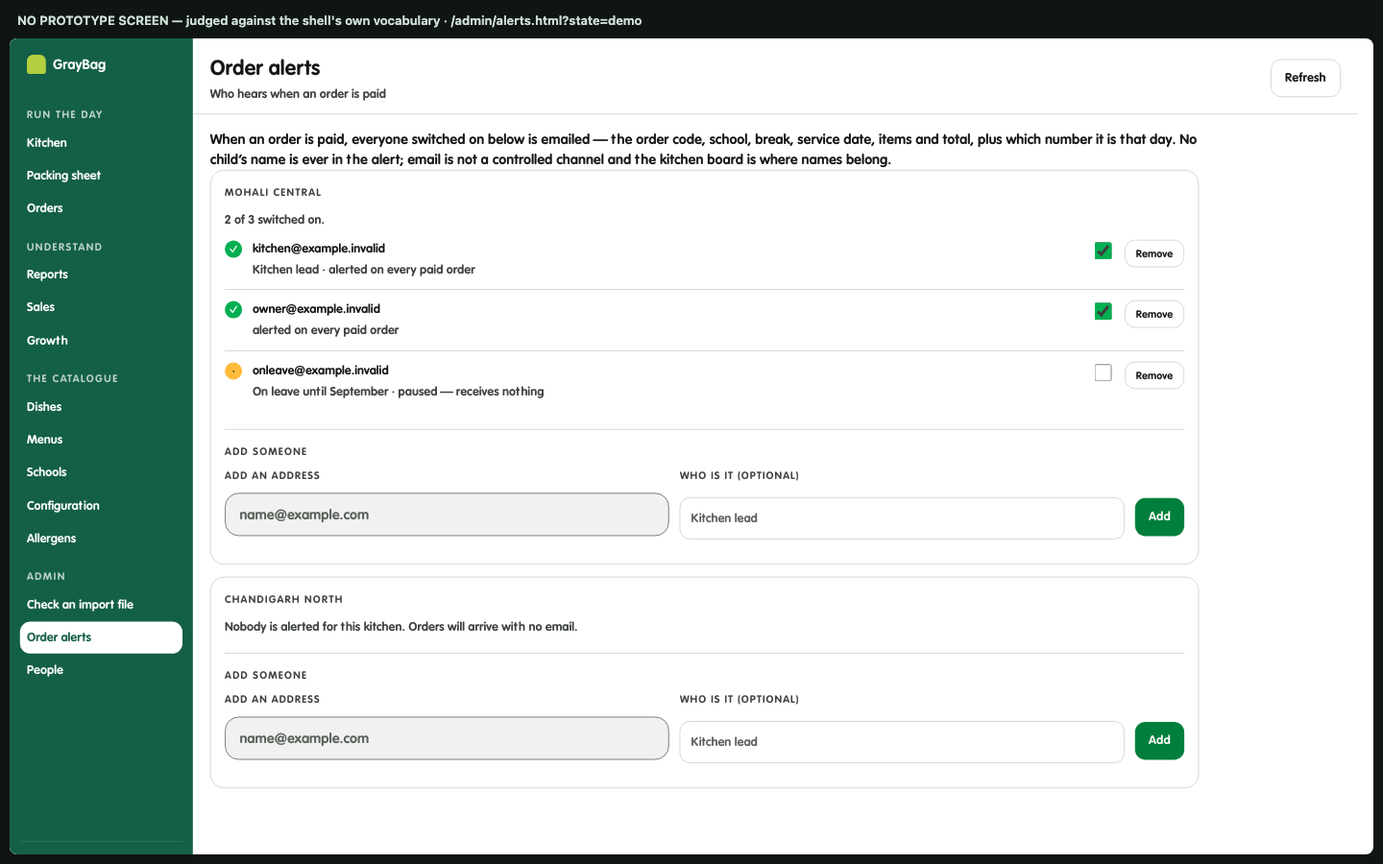
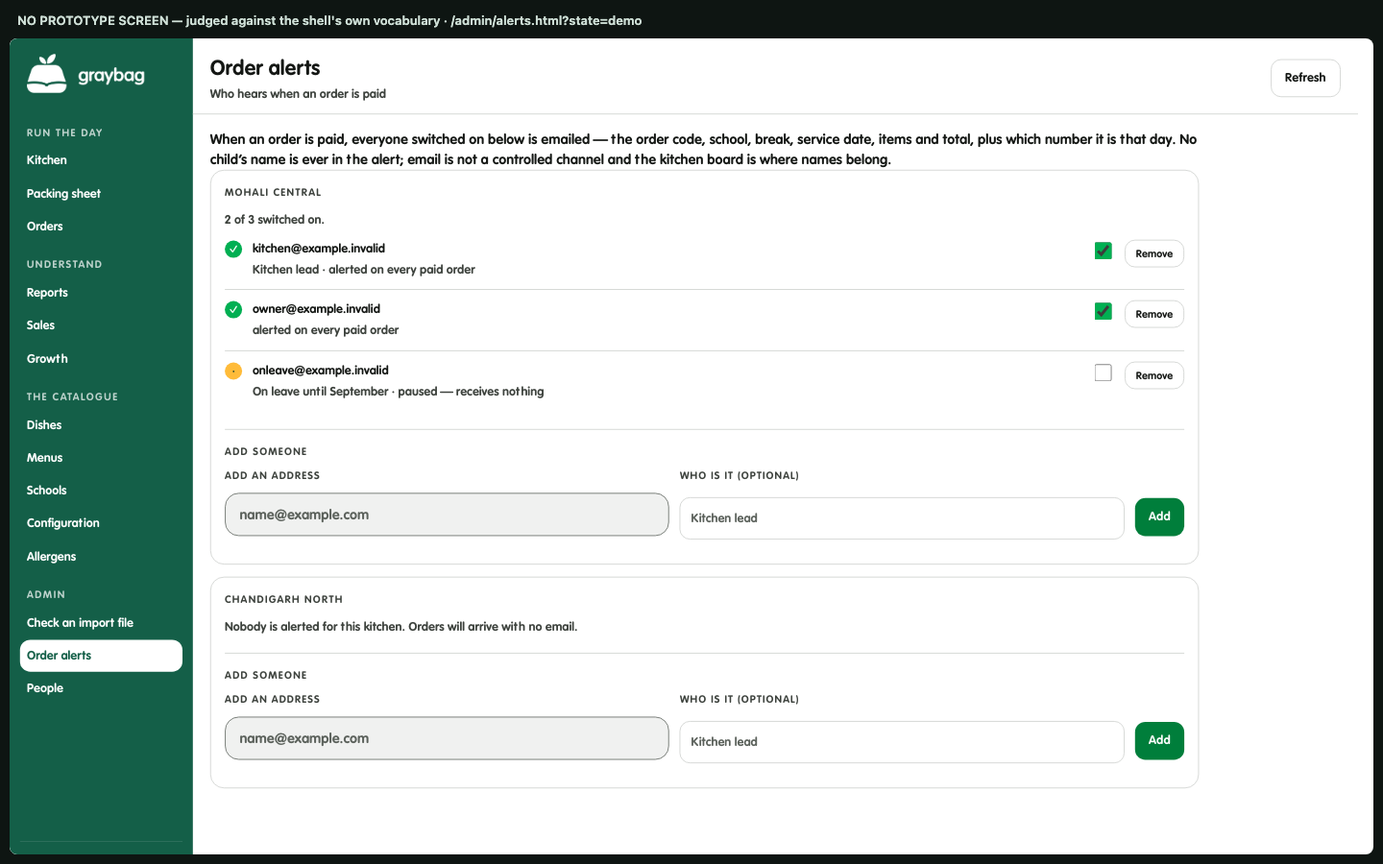
E10-63: /orders had no stylesheet on production, and the checks that missed it (#146)
Four fixes and the reason the tooling passed a visibly broken page.

**/orders rendered as raw HTML.** The migration removed its kitchen.css import
and added nothing, because the rule that replaced imports looked for admin.css
and that page never had one. Nothing caught it: it builds, has no console
errors, its markup is right, and an unstyled page passes a11y more easily than a
styled one. Every signal was visual.

**A build guard now asserts it.** A page whose body carries the shell root must
link a stylesheet defining the shell. Proved by deleting the import and watching
the build fail with the exact message.

**That guard was dead when first written** — placed below the report-and-exit
block, so its failures landed in an array that had already been printed. This
project has now done that twice (E12-36 was the first). check-build-order.test.mjs
asserts nothing executes after the report, so there is no third time.

**The parity tool measured nothing.** It photographed /orders and I never opened
the image — but it could not have helped anyway: /orders has no demo fixture, so
it redirects to sign-in, and the tool shot the sign-in page. Worse, its "no .bo
root" branch returned PASS. It now treats a redirect and a missing shell as
failures, reports which, and exits non-zero. A tool whose only output is pictures
is worth what somebody looking at every picture is worth.

**Also:** the real GrayBag mark replaces the prototype lime square (logo-white
[…]

Changed region(s): [[0.0, 0.28, 0.0938, 0.6533], [0.0, 0.6844, 0.1562, 0.8089], [0.0, 0.0622, 0.125, 0.2489]]

diff --git a/packages/shared/src/policy/documents.generated.ts b/packages/shared/src/policy/documents.generated.ts
@@ -33,7 +33,7 @@ export const POLICY_DOCUMENTS: Record<PolicyKey, PolicyDocument> = {
     source: "docs/terms.md",
     hasPendingTokens: true,
     pendingTokens: ["«SIGNATURE-TREATMENT-PENDING-E00-10»"],
-    markdown: "# GrayBag Terms of Service\n\n**Last updated:** 2026-08-14\n**Applies to:** the GrayBag mobile app and website.\n\nBy creating an account or placing an order, you agree to these Terms and to our\n[Privacy Policy](./privacy-policy.md). If you do not agree, do not use the service.\n\n---\n\n## 1. Who we are and what we do\n\nGrayBag (GRAYBAG SOLUTIONS PRIVATE LIMITED, SCO-461-462, Top Floor, Sector 35-C, Chandigarh, 160022,\nGSTIN 03AAMCG3438M1ZD) takes orders for school lunches and arranges their delivery to\nschools and colleges. **We are the seller of record** (`M1`): you buy the meal from GrayBag, we\ninvoice you, and we pay the kitchens separately. The kitchens prepare the food; GrayBag is\nresponsible to you for the order.\n\n---\n\n## 2. Your account\n\n- You sign in with your **mobile number and a one-time password (OTP)** (`U1`). Keep access to your\n  number secure — anyone who can receive your OTP can use your account.\n- You must be **18 or older** to hold an account and to place orders. When you add a child, you\n  confirm you are that child's parent or lawful guardian and are entitled to give us their details\n  (see the Privacy Policy, §4).\n- The information you give us — your name, your child's name, **school, class and section** — must be\n  accurate. Attendance and class are **self-declared** (`P1`); we rely on what you tell us to deliver\n  to the right place, and we cannot deliver correctly if it is wrong.\n- You are responsible for what happens under your account.\n\n---\n\n## 3. Placing an order\n\n- You choose meals from the menu shown for your child's school. The price you see at checkout is the\n  price you pay; if a price or a cutoff has changed between building your cart and paying, we will\n  **stop and ask you to confirm the new total** rather than charge a different amount (`L7`).\n- **Cutoff.** Each order has a cutoff time, after which it can no longer be placed or changed by you.\n  The cutoff is shown before you pay. Orders are for a specific **service date** (the day the food is\n  eaten).\n- An order is confirmed only when your **payment is captured** — not merely authorised (`L5`). Until\n  then you will see a waiting state, not a confirmation.\n- We may decline or cancel an order (with a refund where due) if a dish becomes unavailable, a\n  kitchen or school is closed, or we reasonably believe the order is fraudulent or mistaken.\n\n---\n\n## 4. Prices, taxes and invoices\n\n- All prices are in **Indian Rupees**.\n- **GST applies.** For an intra-state supply this is shown as **CGST 2.5% + SGST 2.5%** (`M2`, `G2`);\n  for an inter-state supply it is IGST at the same total rate. **Today every GrayBag supply is\n  intra-state**, because we serve Mohali only (`SC1`).\n  `[confirm in E00-10]` whether the menu price is inclusive or exclusive of GST (`[DM-20]`, `[GST-01]`).\n- We issue you a **tax invoice** for each payment, with a gapless serial number for the financial\n  year (`M3`, `G8`, `G9`). The invoice is the record of what you bought and what tax you paid, and we\n  are required to keep it for a statutory period even after you delete your account (see the Privacy\n  Policy, §5). Your child's **first name** appears on the invoice line so you can tell your children's\n  orders apart (`G7`).\n- Invoices are computer-generated. «SIGNATURE-TREATMENT-PENDING-E00-10» (whether a digital signature\n  is required, `[GST-05]`).\n\n---\n\n## 5. Payment\n\n- Payment is processed by **Razorpay** (card, UPI, netbanking). We do not see or store your card\n  details; they are handled inside Razorpay's checkout. See the Privacy Policy, §3, for what Razorpay\n  receives.\n- **Wallet.** If we refund you to your GrayBag **wallet**, that balance can be used to pay for future\n  orders. Wallet credit is **store credit** — it is not cash, it is not transferable, and (in v1) it\n  cannot be topped up with cash. It arises only from refunds. `[confirm in E20-01]` on the RBI Prepaid\n  Payment Instrument position for refund-only credit — cash top-up is deliberately **not** offered\n  because it is regulated.\n\n---\n\n## 6. Cancellations and refunds\n\nThe full rules — who can cancel when, where the money goes, and how long it takes — are in the\n**[Refund & Cancellation Policy](./refund-policy.md)**, which forms part of these Terms. In short:\n\n- You may cancel an order yourself up to the **cancellation cutoff** for that order (`T10`). After\n  that, only the kitchen or GrayBag can cancel it (`T11`, `T12`).\n- Where a refund is due, it goes to your **GrayBag wallet by default** (instant), or to your original\n  payment method on request (which takes several working days) (`M7`).\n- We cancel and refund automatically if a dish is unavailable, or a kitchen or school closes.\n\n---\n\n## 7. Delivery\n\n- Meals are delivered to the child's school for the chosen break time, or made available for counter\n  pickup, depending on the school's arrangement.\n- For counter pickup, a **4-digit pickup code** is sent in your confirmation email and printed on your\n  invoice (`P4`). Staff check the child's name shown on their screen as well as the code before\n  handing the food over.\n- We deliver to the **school, class and section you declared**. If those details are wrong, we may not\n  be able to deliver, and a refund may not be due for a failed delivery caused by wrong information\n  you gave us.\n\n---\n\n## 8. Allergies and food information\n\nThis section describes what the system does, so you can judge what to rely on. It is a\ndescription, not a promise.\n\n**What you enter.** Allergies belong to a child, not to an order. On a child's profile you can\nrecord allergens from a list, each with a severity, and add a free-text note. You enter this once\nand it applies to every order for that child.\n\n**Where it is stored.** On that child's record. It is treated as sensitive personal data about a\nchild under the Digital Personal Data Protection Act, 2023 — see our Privacy Policy.\n\n**What the app does with it.** When you add a dish for a child, the app compares the allergens the\nkitchen has declared for that dish against the ones recorded for that child:\n\n- If they overlap, the app stops and asks you to confirm a second time, naming the allergen, the\n  dish and the child.\n- If nobody has described the dish's allergens, the app says \"not provided\" on the dish, every\n  time, for every child. It does not treat an undescribed dish as safe.\n- If you have not recorded any allergens for that child, there is nothing to compare and no\n  warning appears.\n\n**Where allergen information comes from.** The kitchens supply it. We publish what they give us.\nWe do not test food, inspect kitchens, or verify the declarations independently.\n\n**The per-dish note is not an allergy record.** The note you can attach to a dish when ordering\ngoes to the kitchen as a request — \"less spicy\", \"cut in half\". It is not read as allergy\ninformation, and the app will direct you to the child's profile if you type allergy language into\nit.\n\n**What the kitchen sees.** The staff who pack and hand over the bag see, beside the child's name,\nthe allergens you recorded — as short labels such as MILK or TREE NUT. If you have recorded none,\ntheir screen says \"No allergies provided\" rather than leaving the space blank.\n\n**What the kitchen does not see.** Not your free-text allergy note, not the severity you recorded,\nand no other medical detail. Only the labels.\n\n**What the system does not do.**\n\n- It does not prevent you from ordering a dish after you confirm the warning.\n- It does not check the food as actually prepared. Kitchens handle many ingredients, and a dish\n  can pick up traces of one that was not declared.\n- It does not know about an allergy you have not recorded. Where you have recorded none, the\n  kitchen is told that you have recorded none — not that there are none.\n\n**If a child has a serious or life-threatening allergy, do not rely on this app alone.** The\nwarning is a comparison between two lists we were given. It is not an inspection of the food.\n\n---\n\n## 9. Acceptable use\n\nYou agree not to: use someone else's account or add a child you have no right to add; attempt to place\norders you do not intend to pay for; probe, scrape or attack the service; or use the service for\nanything unlawful. We may suspend or close an account that breaks these Terms.\n\n---\n\n## 10. Our responsibility to you\n\n- We aim to deliver the right meal to the right child on the right day. If we fail to deliver an order\n  you paid for, and it is our or the kitchen's fault, you are entitled to a **refund of that order**.\n- **Nothing in these Terms limits liability that cannot be limited by law** — in particular,\n  liability for death or personal injury caused by negligence.\n- The service is provided on a best-efforts basis. Menus, prices and availability change.\n\n---\n\n## 11. Changes to these Terms\n\nWe may change these Terms. If a change matters, we will ask you to accept the new version before you\nnext order (`E20-03`). Continuing to use the service after a change means you accept it.\n\n---\n\n## 12. Governing law and disputes\n\nThese Terms are governed by the laws of **India**, and disputes are subject to the courts of\nSAS Nagar (Mohali), India. For a complaint about how we handle your personal data, contact\nour **Grievance Officer** (Privacy Policy, §8); if unresolved you may complain to the Data Protection\nBoard of India.\n\n---\n\n## 13. Contact\n\nsupport@graybag.com. Grievance Officer:\nsupport@graybag.com.\n",
+    markdown: "# GrayBag Terms of Service\n\n**Last updated:** 2026-08-14\n**Applies to:** the GrayBag mobile app and website.\n\nBy creating an account or placing an order, you agree to these Terms and to our\n[Privacy Policy](./privacy-policy.md). If you do not agree, do not use the service.\n\n---\n\n## 1. Who we are and what we do\n\nGrayBag (GRAYBAG SOLUTIONS PRIVATE LIMITED, 13, Sector 82, JLPL Industrial Area, GMADA Aerocity, Mohali, Punjab 140306,\nGSTIN 03AAMCG3438M1ZD) takes orders for school lunches and arranges their delivery to\nschools and colleges. **We are the seller of record** (`M1`): you buy the meal from GrayBag, we\ninvoice you, and we pay the kitchens separately. The kitchens prepare the food; GrayBag is\nresponsible to you for the order.\n\n---\n\n## 2. Your account\n\n- You sign in with your **mobile number and a one-time password (OTP)** (`U1`). Keep access to your\n  number secure — anyone who can receive your OTP can use your account.\n- You must be **18 or older** to hold an account and to place orders. When you add a child, you\n  confirm you are that child's parent or lawful guardian and are entitled to give us their details\n  (see the Privacy Policy, §4).\n- The information you give us — your name, your child's name, **school, class and section** — must be\n  accurate. Attendance and class are **self-declared** (`P1`); we rely on what you tell us to deliver\n  to the right place, and we cannot deliver correctly if it is wrong.\n- You are responsible for what happens under your account.\n\n---\n\n## 3. Placing an order\n\n- You choose meals from the menu shown for your child's school. The price you see at checkout is the\n  price you pay; if a price or a cutoff has changed between building your cart and paying, we will\n  **stop and ask you to confirm the new total** rather than charge a different amount (`L7`).\n- **Cutoff.** Each order has a cutoff time, after which it can no longer be placed or changed by you.\n  The cutoff is shown before you pay. Orders are for a specific **service date** (the day the food is\n  eaten).\n- An order is confirmed only when your **payment is captured** — not merely authorised (`L5`). Until\n  then you will see a waiting state, not a confirmation.\n- We may decline or cancel an order (with a refund where due) if a dish becomes unavailable, a\n  kitchen or school is closed, or we reasonably believe the order is fraudulent or mistaken.\n\n---\n\n## 4. Prices, taxes and invoices\n\n- All prices are in **Indian Rupees**.\n- **GST applies.** For an intra-state supply this is shown as **CGST 2.5% + SGST 2.5%** (`M2`, `G2`);\n  for an inter-state supply it is IGST at the same total rate. **Today every GrayBag supply is\n  intra-state**, because we serve Mohali only (`SC1`).\n  `[confirm in E00-10]` whether the menu price is inclusive or exclusive of GST (`[DM-20]`, `[GST-01]`).\n- We issue you a **tax invoice** for each payment, with a gapless serial number for the financial\n  year (`M3`, `G8`, `G9`). The invoice is the record of what you bought and what tax you paid, and we\n  are required to keep it for a statutory period even after you delete your account (see the Privacy\n  Policy, §5). Your child's **first name** appears on the invoice line so you can tell your children's\n  orders apart (`G7`).\n- Invoices are computer-generated. «SIGNATURE-TREATMENT-PENDING-E00-10» (whether a digital signature\n  is required, `[GST-05]`).\n\n---\n\n## 5. Payment\n\n- Payment is processed by **Razorpay** (card, UPI, netbanking). We do not see or store your card\n  details; they are handled inside Razorpay's checkout. See the Privacy Policy, §3, for what Razorpay\n  receives.\n- **Wallet.** If we refund you to your GrayBag **wallet**, that balance can be used to pay for future\n  orders. Wallet credit is **store credit** — it is not cash, it is not transferable, and (in v1) it\n  cannot be topped up with cash. It arises only from refunds. `[confirm in E20-01]` on the RBI Prepaid\n  Payment Instrument position for refund-only credit — cash top-up is deliberately **not** offered\n  because it is regulated.\n\n---\n\n## 6. Cancellations and refunds\n\nThe full rules — who can cancel when, where the money goes, and how long it takes — are in the\n**[Refund & Cancellation Policy](./refund-policy.md)**, which forms part of these Terms. In short:\n\n- You may cancel an order yourself up to the **cancellation cutoff** for that order (`T10`). After\n  that, only the kitchen or GrayBag can cancel it (`T11`, `T12`).\n- Where a refund is due, it goes to your **GrayBag wallet by default** (instant), or to your original\n  payment method on request (which takes several working days) (`M7`).\n- We cancel and refund automatically if a dish is unavailable, or a kitchen or school closes.\n\n---\n\n## 7. Delivery\n\n- Meals are delivered to the child's school for the chosen break time, or made available for counter\n  pickup, depending on the school's arrangement.\n- For counter pickup, a **4-digit pickup code** is sent in your confirmation email and printed on your\n  invoice (`P4`). Staff check the child's name shown on their screen as well as the code before\n  handing the food over.\n- We deliver to the **school, class and section you declared**. If those details are wrong, we may not\n  be able to deliver, and a refund may not be due for a failed delivery caused by wrong information\n  you gave us.\n\n---\n\n## 8. Allergies and food information\n\nThis section describes what the system does, so you can judge what to rely on. It is a\ndescription, not a promise.\n\n**What you enter.** Allergies belong to a child, not to an order. On a child's profile you can\nrecord allergens from a list, each with a severity, and add a free-text note. You enter this once\nand it applies to every order for that child.\n\n**Where it is stored.** On that child's record. It is treated as sensitive personal data about a\nchild under the Digital Personal Data Protection Act, 2023 — see our Privacy Policy.\n\n**What the app does with it.** When you add a dish for a child, the app compares the allergens the\nkitchen has declared for that dish against the ones recorded for that child:\n\n- If they overlap, the app stops and asks you to confirm a second time, naming the allergen, the\n  dish and the child.\n- If nobody has described the dish's allergens, the app says \"not provided\" on the dish, every\n  time, for every child. It does not treat an undescribed dish as safe.\n- If you have not recorded any allergens for that child, there is nothing to compare and no\n  warning appears.\n\n**Where allergen information comes from.** The kitchens supply it. We publish what they give us.\nWe do not test food, inspect kitchens, or verify the declarations independently.\n\n**The per-dish note is not an allergy record.** The note you can attach to a dish when ordering\ngoes to the kitchen as a request — \"less spicy\", \"cut in half\". It is not read as allergy\ninformation, and the app will direct you to the child's profile if you type allergy language into\nit.\n\n**What the kitchen sees.** The staff who pack and hand over the bag see, beside the child's name,\nthe allergens you recorded — as short labels such as MILK or TREE NUT. If you have recorded none,\ntheir screen says \"No allergies provided\" rather than leaving the space blank.\n\n**What the kitchen does not see.** Not your free-text allergy note, not the severity you recorded,\nand no other medical detail. Only the labels.\n\n**What the system does not do.**\n\n- It does not prevent you from ordering a dish after you confirm the warning.\n- It does not check the food as actually prepared. Kitchens handle many ingredients, and a dish\n  can pick up traces of one that was not declared.\n- It does not know about an allergy you have not recorded. Where you have recorded none, the\n  kitchen is told that you have recorded none — not that there are none.\n\n**If a child has a serious or life-threatening allergy, do not rely on this app alone.** The\nwarning is a comparison between two lists we were given. It is not an inspection of the food.\n\n---\n\n## 9. Acceptable use\n\nYou agree not to: use someone else's account or add a child you have no right to add; attempt to place\norders you do not intend to pay for; probe, scrape or attack the service; or use the service for\nanything unlawful. We may suspend or close an account that breaks these Terms.\n\n---\n\n## 10. Our responsibility to you\n\n- We aim to deliver the right meal to the right child on the right day. If we fail to deliver an order\n  you paid for, and it is our or the kitchen's fault, you are entitled to a **refund of that order**.\n- **Nothing in these Terms limits liability that cannot be limited by law** — in particular,\n  liability for death or personal injury caused by negligence.\n- The service is provided on a best-efforts basis. Menus, prices and availability change.\n\n---\n\n## 11. Changes to these Terms\n\nWe may change these Terms. If a change matters, we will ask you to accept the new version before you\nnext order (`E20-03`). Continuing to use the service after a change means you accept it.\n\n---\n\n## 12. Governing law and disputes\n\nThese Terms are governed by the laws of **India**, and disputes are subject to the courts of\nSAS Nagar (Mohali), India. For a complaint about how we handle your personal data, contact\nour **Grievance Officer** (Privacy Policy, §8); if unresolved you may complain to the Data Protection\nBoard of India.\n\n---\n\n## 13. Contact\n\nsupport@graybag.com. Grievance Officer:\nsupport@graybag.com.\n",
   },
   refund: {
     title: "Refund policy",

diff --git a/planning/backlog.html b/planning/backlog.html
@@ -2877,13 +2877,13 @@
         </div>
         <div class="meter-wrap">
           <div class="meter"><span style="width:0%"></span></div>
-          <span class="meter-num">0/37</span>
+          <span class="meter-num">0/39</span>
         </div>
       </header>
       <p class="summary">React Native + Expo shell, navigation, the api/ module discipline, and the performance work that matters — mostly <strong>slow and unreliable networks</strong>, which is the real constraint; devices are mid-range, not bottom-tier.</p>
       <p class="deps">Depends on <code>E13</code> <code>E01</code></p>
       <details>
-        <summary>Context &amp; 37 tasks</summary>
+        <summary>Context &amp; 39 tasks</summary>
         <div class="context"><h4>Locked decisions</h4>
 <ul>
 <li><strong>React Native + Expo</strong>, TypeScript. Reanimated for UI-thread animation, Skia where custom motion is needed.</li>
@@ -3186,6 +3186,22 @@
         <span class="badge r-you">you</span>
         <span class="badge r-later">later</span>
         <span class="ttext">(risk:medium) <strong>Maestro runs a real Android build on web-only pull requests, and adds 25–40 minutes to each.</strong> Andy, 2026-08-28. Every web PR this week waited on an emulator boot, a Gradle build and a cart flow for a change that cannot reach the app. <strong>The obvious fix is the dangerous one.</strong> Putting <code>paths:</code> on the workflow means a web PR never schedules the job at all, and a required check that never reports either blocks the PR forever or — depending on how the protection rule is configured — is treated as satisfied. That is the failure <code>E15-23</code> exists about, arriving by a new route: *not run* and *passed* becoming indistinguishable. <strong>The proposal is that the job always runs and decides inside itself.</strong> No <code>paths:</code> on the trigger and no <code>if:</code> on the required job, so <code>Maestro (cart)</code> always reports a real conclusion. Its first step computes whether the change can affect the app; if not it writes a job summary saying so and exits successfully in about fifteen seconds. The check stays green for the right reason, and the reason is written down where a reviewer can read it. <strong>The subtle part is what counts as mobile.</strong> Not <code>apps/mobile/**</code> — <code>packages/shared</code> ships *inside* the app bundle, and six of the last twelve commits touched it. A filter that misses that skips the check on exactly the changes most able to break the app silently. The list has to be <code>apps/mobile/<strong></code>, <code>packages/shared/</strong></code>, <code>.maestro/<strong></code> and the workflow itself, with a test asserting the list rather than a comment describing it. </strong>And the backstop is what makes it safe**: Maestro runs unconditionally on push to <code>main</code> and in the nightly. If the filter is ever wrong, the cost is finding out within a day rather than never — which is a different and acceptable risk, and is the part that answers &quot;a check that does not run looks like one that passed&quot;</span>
+      </li>
+      <li class="task" data-id="E14-41" data-seed="1" data-risk="" data-owner="build" data-mvp="0" data-seed="1">
+        <button class="box" role="checkbox" aria-checked="false" aria-label="Toggle E14-41"></button>
+        <code class="tid">E14-41</code>
+        
+        
+        <span class="badge r-later">later</span>
+        <span class="ttext"><strong>The scripts suite runs serially, because the meal-pack tests are not isolated from it.</strong> Adding one unrelated test file — <code>check-build-order.test.mjs</code>, which reads two files from disk and touches no database — turned <code>meal-pack-concurrency</code> and <code>pack-eligibility-agreement</code> red. <strong>Nondeterministically</strong>: four failures on one run, two on the next, zero in isolation, zero twice in isolation. <code>node --test</code> runs files concurrently up to the core count, so adding a file changes what runs beside what, and those tests contend with the rest of the suite over shared database state. <strong>The trigger is arbitrary and that is the point</strong> — the next person to add any test file would have hit it, and would have spent an hour proving their own change innocent, as this did. <code>--test-concurrency=1</code> makes it deterministic and costs <strong>nothing measurable</strong>: 196 tests in 7.7 seconds. Determinism beats speed for a gate, and at this size there is no trade to make. <code>E14-42</code> is the real fix</span>
+      </li>
+      <li class="task" data-id="E14-42" data-seed="0" data-risk="" data-owner="build" data-mvp="0">
+        <button class="box" role="checkbox" aria-checked="false" aria-label="Toggle E14-42"></button>
+        <code class="tid">E14-42</code>
+        
+        
+        <span class="badge r-later">later</span>
+        <span class="ttext"><strong>Make the meal-pack tests isolated rather than relying on a serial runner.</strong> <code>E14-41</code> bought determinism by turning parallelism off, which treats the symptom: those tests share database state and assume nothing else is touching it, so they will fail again the moment the suite is parallel for any other reason — a CI runner with more cores, a future <code>--test-concurrency</code> change, or someone running two suites at once. The fix is per-test isolation: a unique pack and school per test rather than a shared fixture, so contention is between the test&#39;s own connections, which is what it is actually trying to prove. The mobile thread owns these tests</span>
       </li></ul>
       </details>
     </article>

diff --git a/packages/shared/src/legal/company.test.ts b/packages/shared/src/legal/company.test.ts
@@ -77,6 +77,31 @@ describe('one source for the company identity', () => {
     // These three are what `E12-25` was about: one answer, two documents.
     expect(COMPANY.legalName).toBe('GRAYBAG SOLUTIONS PRIVATE LIMITED');
     expect(COMPANY.gstin).toBe('03AAMCG3438M1ZD');
-    expect(COMPANY.registeredAddress).toContain('Chandigarh');
+    // Updated 2026-08-28: the GST-registered address moved to Mohali.
+    expect(COMPANY.registeredAddress).toContain('Mohali');
+  });
+
+  /*
+   * The seller's state and the GSTIN's state must agree — added with the address change.
+   *
+   * A GSTIN's first two digits are its state code: `03` is Punjab, `04` is Chandigarh. The
+   * registered address said Chandigarh while the GSTIN said Punjab, and nothing noticed, because
+   * nothing compared them. A tax invoice whose seller address and GSTIN disagree about the state
+   * is fine until somebody files with it.
+   *
+   * Asserted as a property rather than as the current value, so it keeps holding the next time
+   * either one moves.
+   */
+  it('states an address in the state its GSTIN claims', () => {
+    const STATE_BY_CODE: Record<string, string> = { '03': 'Punjab', '04': 'Chandigarh' };
+    // `gstin` is nullable in the type because `company.json` allows null for genuinely unknown
+    // facts. If it is ever null there is no claim to contradict, and this test has nothing to say.
+    const gstin = COMPANY.gstin;
+    if (gstin === null) return;
+
+    const code = gstin.slice(0, 2);
+    const state = STATE_BY_CODE[code];
+    expect(state, `GSTIN begins ${code}, which is not a state code this test knows`).toBeDefined();
+    expect(COMPANY.registeredAddress).toContain(state!);
   });
 });

diff --git a/apps/web/src/styles/backoffice.css b/apps/web/src/styles/backoffice.css
@@ -87,14 +87,7 @@
   font-size: var(--gb-font-size-body-lg);
 }
 
-.bo__brand i {
-  width: 1.375rem;
-  height: 1.375rem;
-  border-radius: 7px 7px 3px 3px;
-  background: var(--lime);
-  display: block;
-  flex: none;
-}
+.bo__brand img { width: 100%; max-width: 8.5rem; height: auto; display: block; }
 
 .bo__group {
   font-size: var(--gb-font-size-overline);
@@ -174,7 +167,23 @@
  * travel the whole way to match a row to its last column. The sidebar keeps its own width; this
  * caps only what is read.
  */
-.bo__scroll { flex: 1; min-width: 0; padding-bottom: var(--gb-space-8); }
+/*
+ * The content column is inset from the sidebar.
+ *
+ * `.pad` gives most blocks their own padding, but anything rendered outside one — a toolbar, a
+ * status line, a page that forgot — sat flush against the dark rail with its first character
+ * touching it. The inset belongs to the column, not to each thing in it.
+ */
+.bo__scroll {
+  flex: 1;
+  min-width: 0;
+  padding: 0 var(--gb-space-5) var(--gb-space-8);
+}
+
+/* `.pad` and `.toolbar` carry their own; do not inset them twice. */
+.bo__scroll > .pad,
+.bo__scroll > .toolbar { margin-inline: calc(var(--gb-space-5) * -1); }
+
 .bo__scroll > *,
 .bo__top > * { max-width: 74rem; }
 .bo__top { display: flex; }

diff --git a/packages/shared/src/legal/company.generated.ts b/packages/shared/src/legal/company.generated.ts
@@ -13,7 +13,8 @@ export const COMPANY_JSON = {
     "rendered document and a production build refuses to publish it."
   ],
   "legalName": "GRAYBAG SOLUTIONS PRIVATE LIMITED",
-  "registeredAddress": "SCO-461-462, Top Floor, Sector 35-C, Chandigarh, 160022",
+  "registeredAddress": "13, Sector 82, JLPL Industrial Area, GMADA Aerocity, Mohali, Punjab 140306",
+  "_registeredAddressComment": "Changed 2026-08-28 on Andy's instruction: this is the GST-registered address. It also RESOLVES an inconsistency rather than only updating a fact — the GSTIN begins 03, which is Punjab, while the previous address was in Chandigarh, state code 04. A tax invoice whose seller address and GSTIN disagree about the state is the kind of thing that is fine until somebody files with it.",
   "gstin": "03AAMCG3438M1ZD",
   "sacCode": null,
   "signatureTreatment": null,

diff --git a/packages/shared/src/payments/invoice-email.test.ts b/packages/shared/src/payments/invoice-email.test.ts
@@ -166,7 +166,7 @@ describe('unresolvedTokens — the guard that was missing', () => {
     const real = {
       ...INVOICE,
       sellerLegalName: 'GRAYBAG SOLUTIONS PRIVATE LIMITED',
-      sellerAddress: 'SCO-461-462, Top Floor, Sector 35-C, Chandigarh, 160022',
+      sellerAddress: '13, Sector 82, JLPL Industrial Area, GMADA Aerocity, Mohali, Punjab 140306',
       sellerGstin: '03AAMCG3438M1ZD',
     };
     expect(unresolvedTokens(renderInvoiceText(real))).toEqual([]);

diff --git a/planning/backlog/E14-mobile-app-shell.md b/planning/backlog/E14-mobile-app-shell.md
@@ -54,3 +54,5 @@ summary: React Native + Expo shell, navigation, the api/ module discipline, and 
 - [x] `E14-37` (risk:high) **`Maximum update depth exceeded` on the waiting screen, during the first real payment.** The poller updated an `elapsedMs` state every two seconds and its effect depended on the object `useCheckout()` returns — which is rebuilt every render, so each tick re-subscribed the effect. **It starved the poll it existed to drive**: the payment captured at Razorpay and the order never settled. Fixed by taking the clock out of render state entirely — the screen needs one threshold crossing (§5.12's ten seconds), so that is one boolean set by one `setTimeout` instead of a state write per tick — and by depending only on primitives and stable callbacks
 - [x] `E14-38` **Maestro never left the school picker: the flow was tapping the search box.** The 2026-08-15 runs are the furthest this job has ever got — AVD booted, staging APK built and installed, app launched, `tab-menu` and `school-picker` both resolved — so `E01-26` (wrong `applicationId`), `E14-36` (Gradle metaspace OOM, 781-second boot) and `E01-28` (missing `EXPO_PUBLIC_RAZORPAY_KEY_ID` rendering `CantConnectScreen`) are all genuinely fixed and the three `vars.*` are set. It then failed on `Assertion is false: id: screen-menu is visible`, **identically on two different commits including a docs-only one** — deterministic, not flaky. Ruled out by querying staging as anon with the exact `select` the app sends: Amity has 47 menu items, version 91, 2 break times, and all three schools list. The cause is the flow itself: `tapOn: id: 'school-picker-.*', index: 0`. `SchoolPicker` puts **nine other testIDs under that prefix** — `-search`, `-stale`, `-welcome`, `-loading`, `-error`, `-empty`, `-no-match`, `-request-footer`, `-request-from-list` — and the **search field renders before the list**, so index 0 was the search box. Tapping it focuses the field and opens the keyboard; no navigation happens, `MenuScreen` never mounts. `screen-menu` is rendered in *every* MenuScreen state including loading and error, so the assertion failing proved the screen was never reached — which is what ruled out the slow-load theory. Fixed by matching a uuid-shaped suffix (`school-picker-[0-9a-f]{8}-…`), which hits rows and only rows and still hard-codes no school. `check-maestro-ids.mjs` recognised a trailing `.*` and nothing else, so it *passed* the loose wrong pattern and *rejected* the precise right one; it now derives the literal prefix from the first regex metacharacter, and still rejects an id that exists nowhere. Also added: `--debug-output` and an artifact upload keeping the screenshot and view hierarchy, and a 45s `extendedWaitUntil` on the first network-backed assertion. **Two self-inflicted costs on the way, both now guarded**: splitting the `maestro test` command across lines with `\` continuations killed a whole 29-minute run in three seconds — `android-emulator-runner` runs its `script:` a line at a time through `sh -c`, so the backslash arrives as a literal argument (`Flow path does not exist: /home/runner/work/graybag/graybag/\`) — and no report or debug artifact was produced at all; and the flow's syntax was never checked before the 25-minute APK build. `maestro check-syntax` needs no device, takes a second, and now runs immediately after the Maestro install, so a malformed flow fails before the build rather than looking identical to a product failure after it. Maestro 2.8.0 confirmed locally to accept `--debug-output` and `--flatten-debug-output`. **The picker fix worked**: the next run reached **step 13** and 54 seconds, up from step 4 and 37 seconds — through the picker, the menu, dish detail, add-to-cart and into the cart — and failed on `"Subtotal" is visible`. The debug artifact settled that one in a minute instead of a run: the screenshot shows a **correct** cart (Wheat Jaggery Cake, ₹69.00 each · excl. GST, sticky `Place order · ₹72.46` — the same paise the production sweep computed), and the view hierarchy contains no `Subtotal` at all, because `CartTotals` is the last card in the ScrollView, under the break-time picker, and is below the fold on a 320x640 emulator. The flow now `scrollUntilVisible`s to `cart-subtotal` first, asserts `No child chosen yet` **before** that scroll (it is the first card; the totals are the last, and they do not share a screen), and moves `assertNotVisible: IGST` to after the scroll — an absence assertion over a region that is off screen passes for the wrong reason. The post-gate assertion changed from the text `Total` to the id `cart-total`, because `Total` also matches inside `Subtotal`. Also found from the same screenshot and filed as `E05-53`: the cart line collapses at 320dp, wrapping a dish name one word per line. **GREEN on 2026-08-16** — `[Passed] cart (47s)`, `1/1 Flow Passed`, run 31891879898, the first time this job has ever passed. Five distinct causes in the end: the wrong Android `applicationId` (`E01-26`), the Gradle metaspace OOM and 781-second boot (`E14-36`), the missing `EXPO_PUBLIC_RAZORPAY_KEY_ID` that rendered `CantConnectScreen` (`E01-28`), the picker pattern tapping the search box, and the totals being below the fold — plus one self-inflicted run lost to `\` line continuations in a `script:` the action runs a line at a time
 - [ ] `E14-40` (owner:andy) (risk:medium) **Maestro runs a real Android build on web-only pull requests, and adds 25–40 minutes to each.** Andy, 2026-08-28. Every web PR this week waited on an emulator boot, a Gradle build and a cart flow for a change that cannot reach the app. **The obvious fix is the dangerous one.** Putting `paths:` on the workflow means a web PR never schedules the job at all, and a required check that never reports either blocks the PR forever or — depending on how the protection rule is configured — is treated as satisfied. That is the failure `E15-23` exists about, arriving by a new route: *not run* and *passed* becoming indistinguishable. **The proposal is that the job always runs and decides inside itself.** No `paths:` on the trigger and no `if:` on the required job, so `Maestro (cart)` always reports a real conclusion. Its first step computes whether the change can affect the app; if not it writes a job summary saying so and exits successfully in about fifteen seconds. The check stays green for the right reason, and the reason is written down where a reviewer can read it. **The subtle part is what counts as mobile.** Not `apps/mobile/**` — `packages/shared` ships *inside* the app bundle, and six of the last twelve commits touched it. A filter that misses that skips the check on exactly the changes most able to break the app silently. The list has to be `apps/mobile/**`, `packages/shared/**`, `.maestro/**` and the workflow itself, with a test asserting the list rather than a comment describing it. **And the backstop is what makes it safe**: Maestro runs unconditionally on push to `main` and in the nightly. If the filter is ever wrong, the cost is finding out within a day rather than never — which is a different and acceptable risk, and is the part that answers "a check that does not run looks like one that passed"
+- [x] `E14-41` **The scripts suite runs serially, because the meal-pack tests are not isolated from it.** Adding one unrelated test file — `check-build-order.test.mjs`, which reads two files from disk and touches no database — turned `meal-pack-concurrency` and `pack-eligibility-agreement` red. **Nondeterministically**: four failures on one run, two on the next, zero in isolation, zero twice in isolation. `node --test` runs files concurrently up to the core count, so adding a file changes what runs beside what, and those tests contend with the rest of the suite over shared database state. **The trigger is arbitrary and that is the point** — the next person to add any test file would have hit it, and would have spent an hour proving their own change innocent, as this did. `--test-concurrency=1` makes it deterministic and costs **nothing measurable**: 196 tests in 7.7 seconds. Determinism beats speed for a gate, and at this size there is no trade to make. `E14-42` is the real fix
+- [ ] `E14-42` **Make the meal-pack tests isolated rather than relying on a serial runner.** `E14-41` bought determinism by turning parallelism off, which treats the symptom: those tests share database state and assume nothing else is touching it, so they will fail again the moment the suite is parallel for any other reason — a CI runner with more cores, a future `--test-concurrency` change, or someone running two suites at once. The fix is per-test isolation: a unique pack and school per test rather than a shared fixture, so contention is between the test's own connections, which is what it is actually trying to prove. The mobile thread owns these tests
